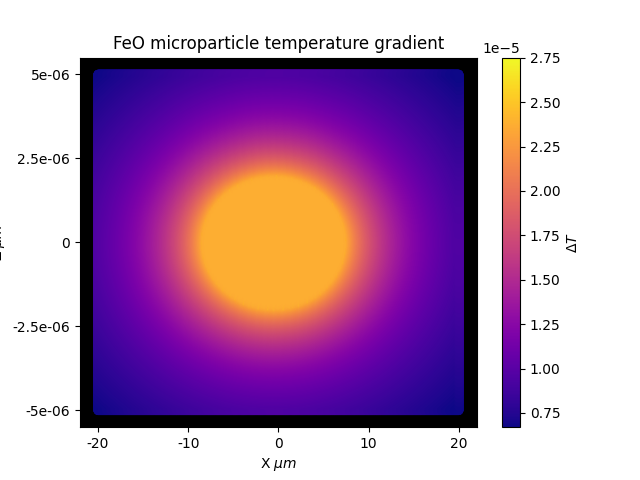
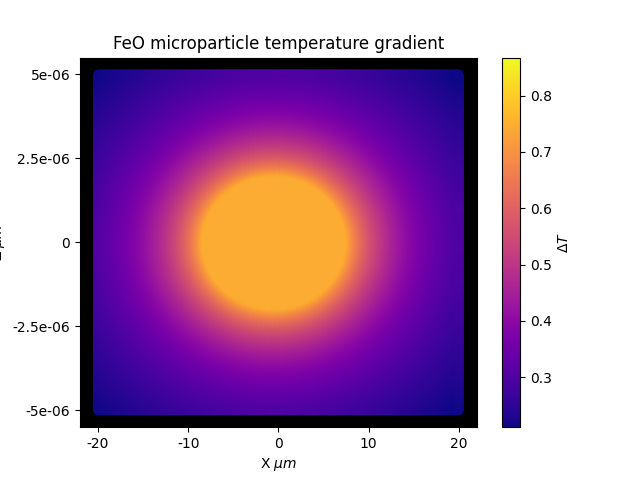
pretty figure :)

diff --git a/janus-gradient/src/main.cpp b/janus-gradient/src/main.cpp
@@ -23,23 +23,24 @@ std::mt19937 gen(rd());
 	const long double particleRadius        = 2*pow(10,-6);
 	const long double particleRadiusSquared = pow(particleRadius,2);
 	const int 	  nDeposits		= 6500;
-	const long double volumePerDeposit    = 4.1666*(10,-4)/nDeposits;
-	//const long double volumePerDeposit	= 4*pi*pow((100*pow(10,-9)),3)/3;
-	const long double depositRadius		= pow(volumePerDeposit*3/(4*pi),-3);	
-	
+	//const long double volumePerDeposit    = 4.1666*(10,-4)/nDeposits;
+	const long double volumePerDeposit	= 4*pi*pow((100*pow(10,-9)),3)/3;
+	const long double depositRadius		= 70*pow(10,-9);	
+	const long double depositArea		= pi*pow(depositRadius,2);
 	//Simulation box:
 	const long double bounds 		= 5*pow(10,-6); //40 microns for now
 
-	const long double kWater 		= 0.598; //W/m·K
+	const long double volumetricHeatCapacity = 4.2*pow(10,6);
 	long double stepSize;
 	long double dv;
+	const long double alphaWater 		= 1.43*pow(10,-7);
 	const long double kSilica		= 1.1;  //W/m*K
 	
 	//Laser:
-	const long double lambda		= 808*pow(10,-9);  //wavelength of laser. Keep above particleRadius generally
-	const long double intensity		= 200*pow(10,-3); // milliwatt laser
-	const long double areaOfIllumination    = 20*pow(10,-6); 
-	const long double I0			= 2*intensity/(pi*pow(areaOfIllumination*2,2));
+	const long double lambda		= 400*pow(10,-9);  //wavelength of laser. Keep above particleRadius generally
+	const long double intensity		= 100*pow(10,-3); // milliwatt laser
+	const long double areaOfIllumination    = 40*pow(10,-6); 
+	const long double I0			= 2*intensity/(pow(areaOfIllumination*2,2));
 
 
 	
@@ -66,8 +67,8 @@ inline long double integral(long double x, long double y, long double z,vector<P
     					    (y-deposits[i].y)*(y-deposits[i].y) +
     					    (z-deposits[i].z)*(z-deposits[i].z));
   		
-    		q = ((I0 + I0*cos(twoPi/lambda))/volumePerDeposit*kWater)/(distance);
-		contributionSum -=  q;
+    		q = ((I0 + I0*cos(twoPi/lambda))*depositArea)/(distance*volumePerDeposit);
+		contributionSum +=  q;
 	}
     	return contributionSum*dv;
 }
